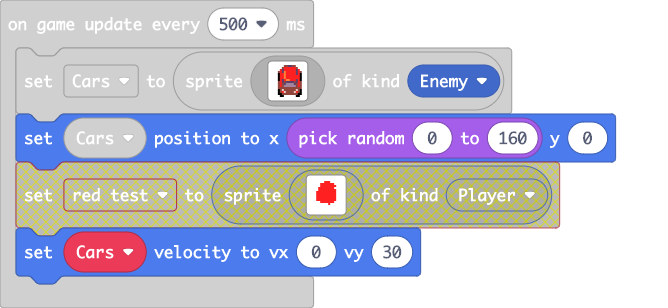
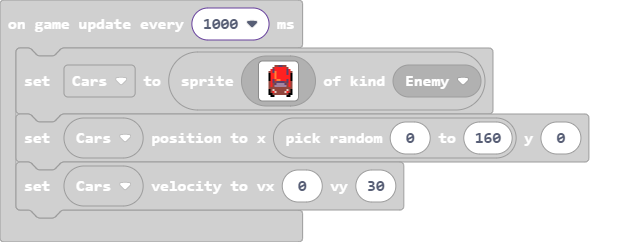
Update main.blocks, main.ts

diff --git a/main.ts b/main.ts
@@ -19,7 +19,7 @@ let goose = sprites.create(img`
     . . . . . . . . . . . . . . . . 
     `, SpriteKind.Player)
 goose.setPosition(80, 110)
-game.onUpdateInterval(500, function () {
+game.onUpdateInterval(1000, function () {
     Cars = sprites.create(img`
         . . . . . . e e c c e e . . . . 
         . . . . . e 2 2 2 2 2 2 e . . . 
